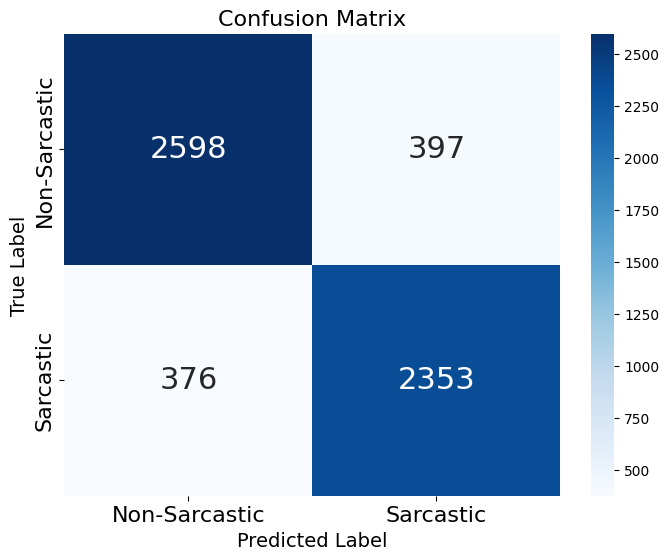
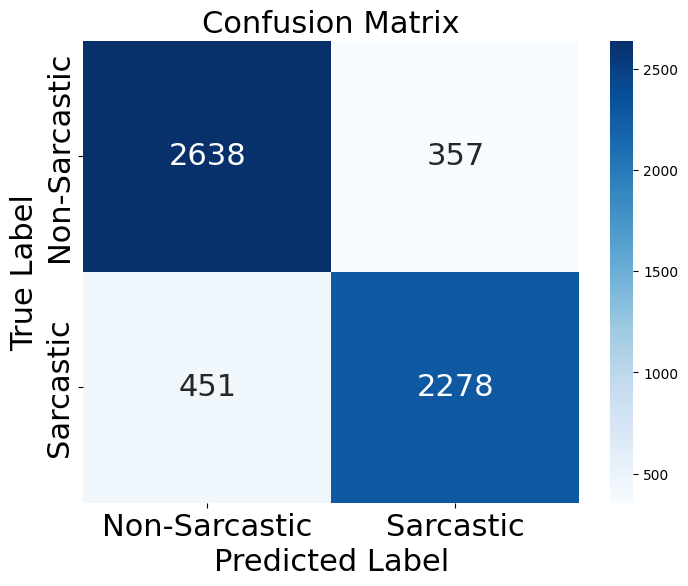
Changed Visuals

diff --git a/Bi-GRU/Bi-GRU.py b/Bi-GRU/Bi-GRU.py
@@ -20,7 +20,7 @@ VOCAB_SIZE = 12000         # Maximum vocabulary size
 EMBEDDING_DIM = 96         # Embedding dimensions (randomly initialized)
 BATCH_SIZE = 128
 EPOCHS = 40
-OUTPUT_DIR = "bigru_arcasm_outputs"
+OUTPUT_DIR = "Sarcasm_outputs"
 DATA_PATH = "../Dataset/Sarcasm_Headlines_Dataset_v2.json"
 
 # Create output directory if not exists
@@ -159,11 +159,11 @@ sns.heatmap(
     yticklabels=['Non-Sarcastic', 'Sarcastic'],
     annot_kws={"size": 22} 
 )
-plt.title('Confusion Matrix', fontsize=16)
-plt.ylabel('True Label', fontsize=14)
-plt.xlabel('Predicted Label', fontsize=14)
-plt.xticks(fontsize=16)
-plt.yticks(fontsize=16)
+plt.title('Confusion Matrix', fontsize=22)
+plt.ylabel('True Label', fontsize=22)
+plt.xlabel('Predicted Label', fontsize=22)
+plt.xticks(fontsize=22)
+plt.yticks(fontsize=22)
 plt.savefig(os.path.join('Sarcasm_outputs', 'confusion_matrix.png'), bbox_inches='tight')
 plt.close()
 

diff --git a/Bi-LSTM/Bi-LSTM.py b/Bi-LSTM/Bi-LSTM.py
@@ -159,11 +159,11 @@ if __name__ == "__main__":
         yticklabels=['Non-Sarcastic', 'Sarcastic'],
         annot_kws={"size": 22} 
     )
-    plt.title('Confusion Matrix', fontsize=16)
-    plt.ylabel('True Label', fontsize=14)
-    plt.xlabel('Predicted Label', fontsize=14)
-    plt.xticks(fontsize=16)
-    plt.yticks(fontsize=16)
+    plt.title('Confusion Matrix', fontsize=22)
+    plt.ylabel('True Label', fontsize=22)
+    plt.xlabel('Predicted Label', fontsize=22)
+    plt.xticks(fontsize=22)
+    plt.yticks(fontsize=22)
     plt.savefig(os.path.join('sarcasm_outputs', 'confusion_matrix.png'), bbox_inches='tight')
     plt.close()
 
